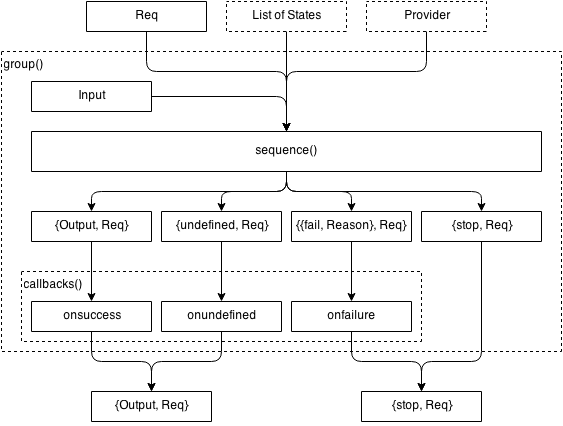
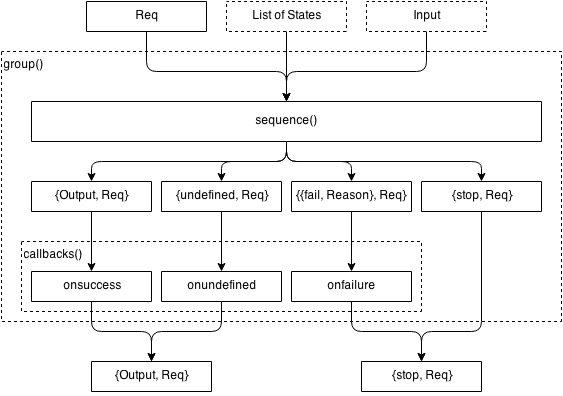
replaced a provider value to an input map

diff --git a/README.md b/README.md
@@ -74,8 +74,6 @@ The result of the workflow execution will be one of the following:
 
 The `Input` and the `Output` of workflow represent an authentication map which should have the following structure:
 
-- `provider` (managed by the library) -
-		The provider with which the user authenticated (e.g. 'twitter' or 'facebook').
 - `uid` -
 		An identifier unique to the given provider, such as a Twitter user ID. Should be stored as a string.
 - `info` -
@@ -156,7 +154,7 @@ and its value is reduced to one of two possible (by default, user of library can
 It is possible to create more than one group of sequences in the main workflow.
 In this case the control of execution is delegated to the next group on the basis of or-sequence.
 To be able to determine the execution of the which group is completed successfully,
-the user sets a provider value for each group. That value will be added to the final authentication map.
+the user sets an input map for each group. That map will be merged to the final authentication map.
 
 #### Examples of creating the main workflow
 
@@ -164,6 +162,7 @@ the user sets a provider value for each group. That value will be added to the f
 %% minimal example
 pal:new([workflow(1)]).
 pal:new([workflow(1)], Opts).
+pal:new(#{name => "example"}, [workflow(1)], Opts).
 
 %% and-sequence: workflow(1) and workflow(2)
 pal:new([workflow(1), workflow(2)]).
@@ -174,12 +173,12 @@ pal:new([[workflow(1), workflow(2)]]).
 %% or-and-sequence: (workflow(1) or workflow(2)) and workflow(3)
 pal:new([[workflow(1), workflow(2)], workflow(3)]).
 
-%% named groups
-pal:init([{"example", pal_workflow}]).
-pal:init([{"example", [workflow(1), workflow(2)], Opts}]).
+%% groups
+pal:init([{#{name => "example"}, pal_workflow}]).
+pal:init([{#{name => "example"}, [workflow(1), workflow(2)], Opts}]).
 pal:init([
-		{"example-1", [workflow(1), workflow(2)], LocalOpts1},
-		{"example-2", [workflow(3)], LocalOpts2}
+		{#{name => "example-1"}, [workflow(1), workflow(2)], LocalOpts1},
+		{#{name => "example-2"}, [workflow(3)], LocalOpts2}
 	], GlobalOpts).
 ```
 
